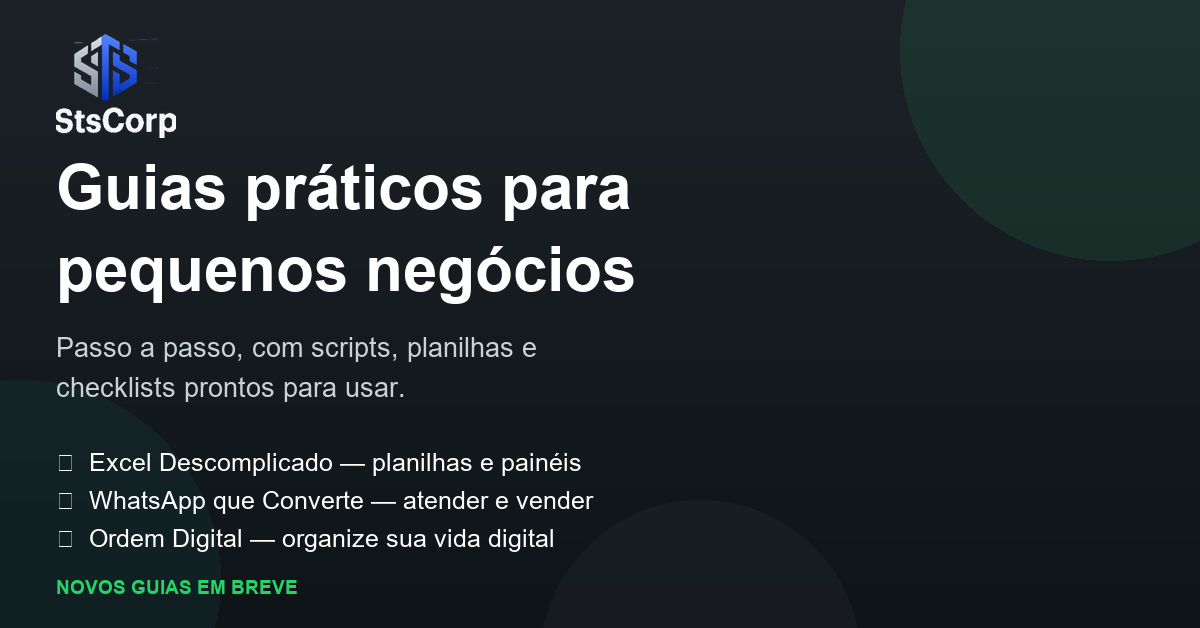
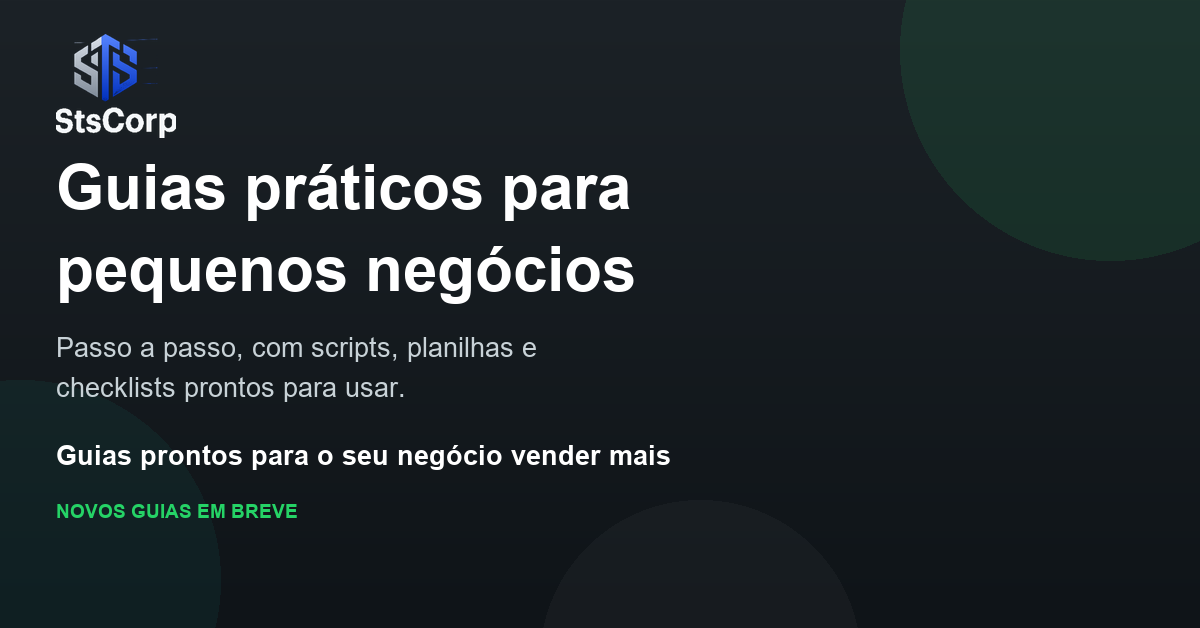
vitrine: hero full-width, arte nova sem lista de produtos (frase de fechamento), novo h1 e .rot maior; og:image e URLs com nova versao de cache

Changed region(s): [[0.0308, 0.7866, 0.4933, 0.8774], [0.0308, 0.6959, 0.555, 0.7564], [0.0308, 0.9076, 0.2467, 0.9682]]

diff --git a/index.html b/index.html
@@ -10,7 +10,7 @@
 <meta property="og:site_name" content="StsCorp">
 <meta property="og:title" content="StsCorp — Guias práticos para pequenos negócios">
 <meta property="og:description" content="Excel Descomplicado, WhatsApp que Converte e Ordem Digital. Material pronto para usar, com garantia de 7 dias.">
-<meta property="og:image" content="https://stscorp.netlify.app/banner_social.png">
+<meta property="og:image" content="https://stscorp.netlify.app/banner_social.png?v=4">
 <meta name="twitter:card" content="summary_large_image">
 <link rel="icon" href="/logo_stscorp_pagina.png?v=3">
 <style>
@@ -72,9 +72,10 @@ section.par{background:var(--folha);border-top:1px solid var(--borda);border-bot
 
 /* hero */
 .hero{padding:clamp(48px,7vw,84px) 0;background:linear-gradient(180deg,#fff 0%,var(--folha) 100%);overflow:hidden}
-.hero .grid{display:grid;grid-template-columns:1.1fr .9fr;gap:clamp(32px,5vw,64px);align-items:center}
-.hero p.lead{font-size:clamp(1.06rem,1.6vw,1.2rem);max-width:34em}
-.hero .arte{width:100%;max-width:460px;margin:0 auto;display:block;border-radius:16px;box-shadow:var(--sombra-2)}
+.hero .grid{display:grid;grid-template-columns:1fr;gap:clamp(28px,4vw,44px);align-items:center;text-align:center}
+.hero .rot{font-size:1rem;letter-spacing:.14em}
+.hero p.lead{font-size:clamp(1.06rem,1.6vw,1.2rem);max-width:34em;margin:0 auto}
+.hero .arte{width:100%;max-width:1072px;margin:0 auto;display:block;border-radius:16px;box-shadow:var(--sombra-2)}
 
 /* cartoes de produto */
 .cards{display:grid;grid-template-columns:repeat(auto-fit,minmax(300px,1fr));gap:24px;margin-top:8px}
@@ -112,7 +113,7 @@ section.par{background:var(--folha);border-top:1px solid var(--borda);border-bot
 
 @media (max-width:980px){
   .hero .grid{grid-template-columns:1fr;text-align:center}
-  .hero .arte{max-width:340px}
+  .hero .arte{max-width:100%}
   .rodape .grid{grid-template-columns:1fr;gap:28px;text-align:center}
   .rodape p{max-width:none}
 }
@@ -145,11 +146,11 @@ section.par{background:var(--folha);border-top:1px solid var(--borda);border-bot
 <div class="grid">
 <div>
 <p class="rot">Vitrine de guias práticos</p>
-<h1 id="hero-titulo">Guias prontos para o seu negócio vender mais</h1>
+<h1 id="hero-titulo">Menos improviso, mais vendas e organização</h1>
 <p class="lead">Material passo a passo, feito para pequenos negócios: planilhas que organizam, scripts que qualificam e checklists que padronizam. Tudo editável, com garantia de 7 dias.</p>
 </div>
 <div>
-<picture><source srcset="/banner_social.webp?v=1" type="image/webp"><img class="arte" src="/banner_social.png?v=3" alt="StsCorp — guias práticos para pequenos negócios" width="1200" height="628"></picture>
+<picture><source srcset="/banner_social.webp?v=2" type="image/webp"><img class="arte" src="/banner_social.png?v=4" alt="StsCorp — guias práticos para pequenos negócios" width="1200" height="628"></picture>
 </div>
 </div>
 </div>
